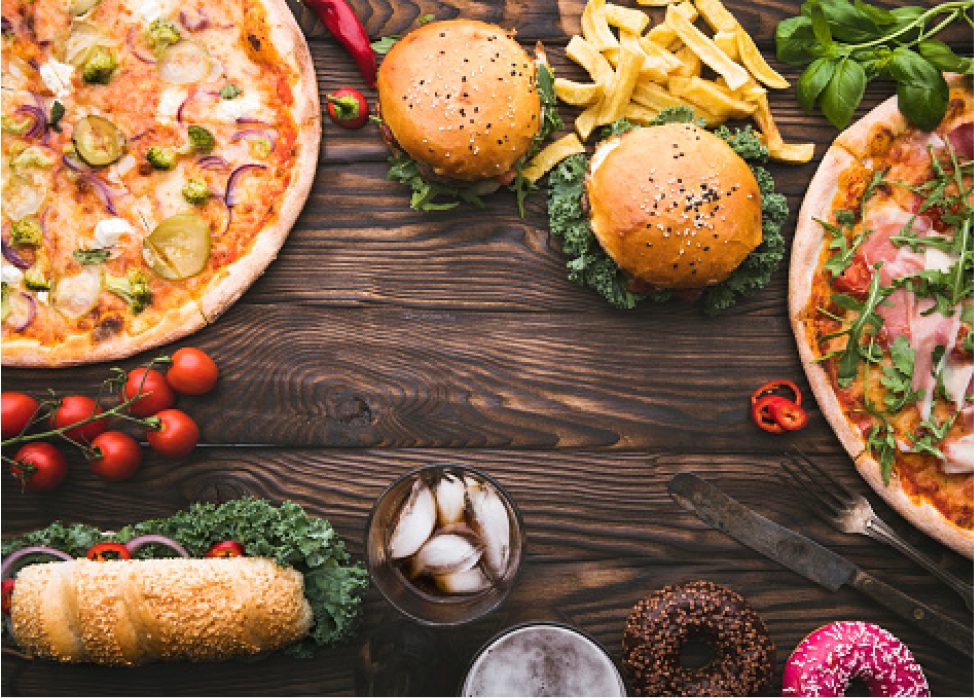
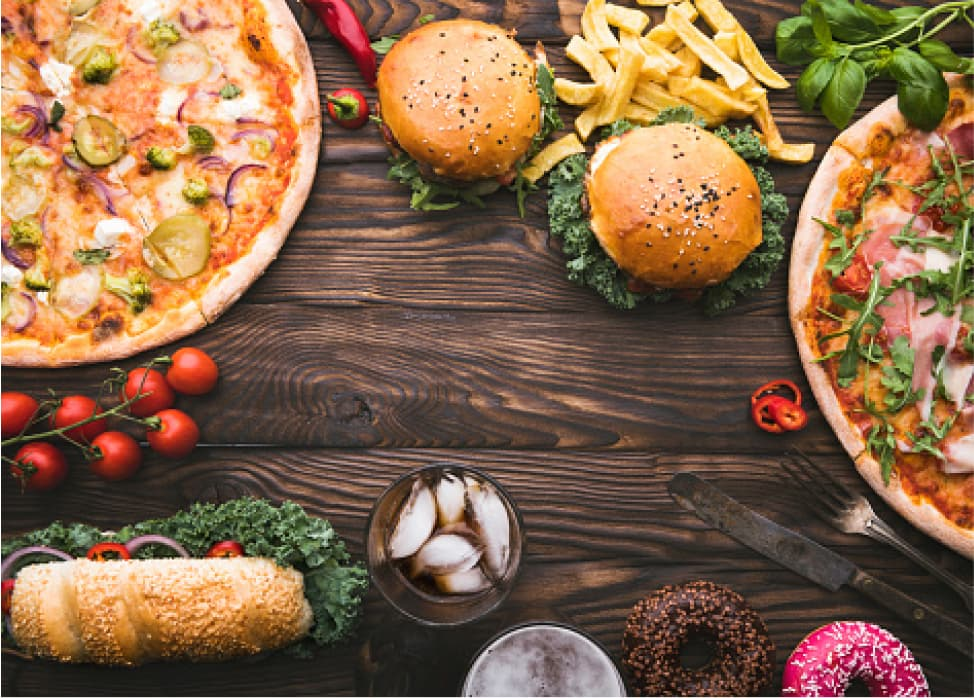
change img

diff --git a/scss/style.scss b/scss/style.scss
@@ -168,12 +168,15 @@
     &__img {
         padding-top: 23px;
         margin-left: 145px;
+        height: 697px;
         max-width: 972px;
-        img{
-            -webkit-mask: url(../img/1.svg);
-            -webkit-mask-repeat: no-repeat;
-            -webkit-mask-size: 100% 100%;
-         }
+        width: 100%;
+        background: url(../img/home.jpg);
+        background-repeat: no-repeat;
+        background-size: cover;
+        -webkit-mask: url(../img/mask.png);
+        -webkit-mask-repeat: no-repeat;
+        -webkit-mask-size: cover;
     }
 
     &__toggle {

diff --git a/index.html b/index.html
@@ -38,10 +38,7 @@
                         </div>
                         <a href="#" class="home__btn">Try now</a>
                     </div>
-                    <div class="home__img">
-                        <img src="./img/home.jpg" width="972px" alt="food on the table">
-                    </div>
-                    
+                    <div class="home__img"></div>
                 </div>
             </section>
             <section class="menu" id="menu">

diff --git a/css/style.css b/css/style.css
@@ -140,12 +140,15 @@
 .home__img {
   padding-top: 23px;
   margin-left: 145px;
+  height: 697px;
   max-width: 972px;
-}
-.home__img img {
-  -webkit-mask: url(../img/1.svg);
+  width: 100%;
+  background: url(../img/home.jpg);
+  background-repeat: no-repeat;
+  background-size: cover;
+  -webkit-mask: url(../img/mask.png);
   -webkit-mask-repeat: no-repeat;
-  -webkit-mask-size: 100% 100%;
+  -webkit-mask-size: cover;
 }
 .home__toggle {
   position: absolute;
